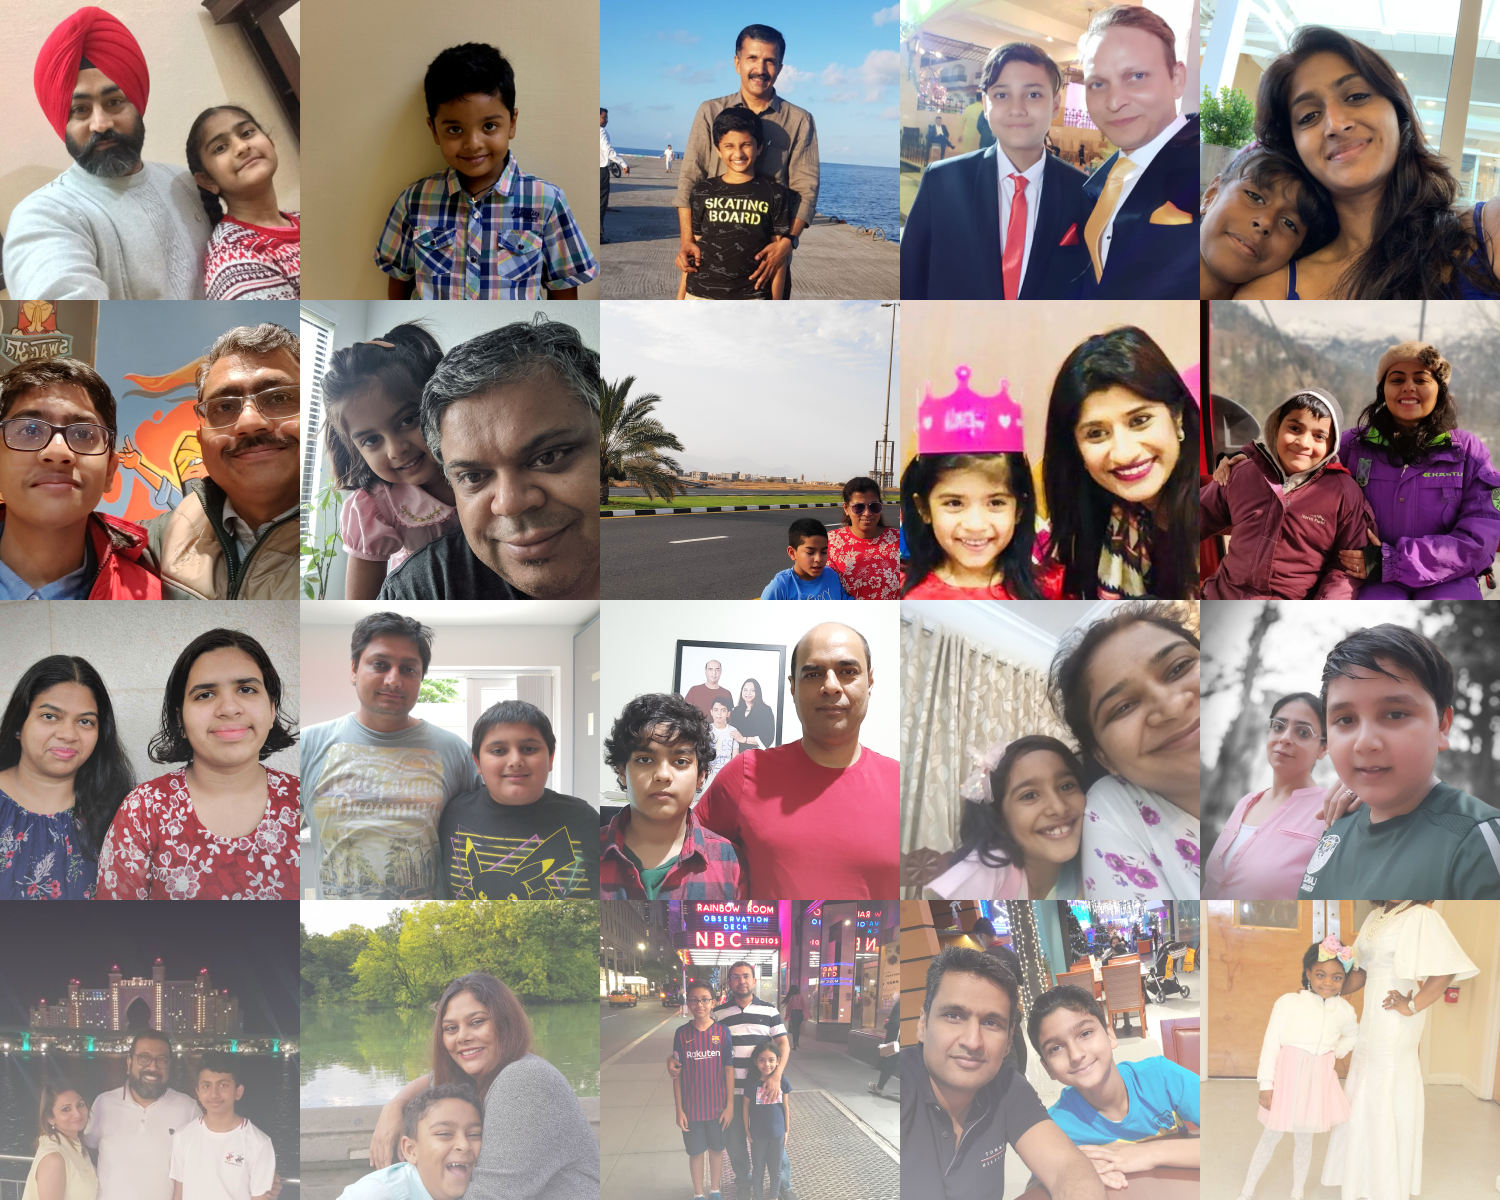
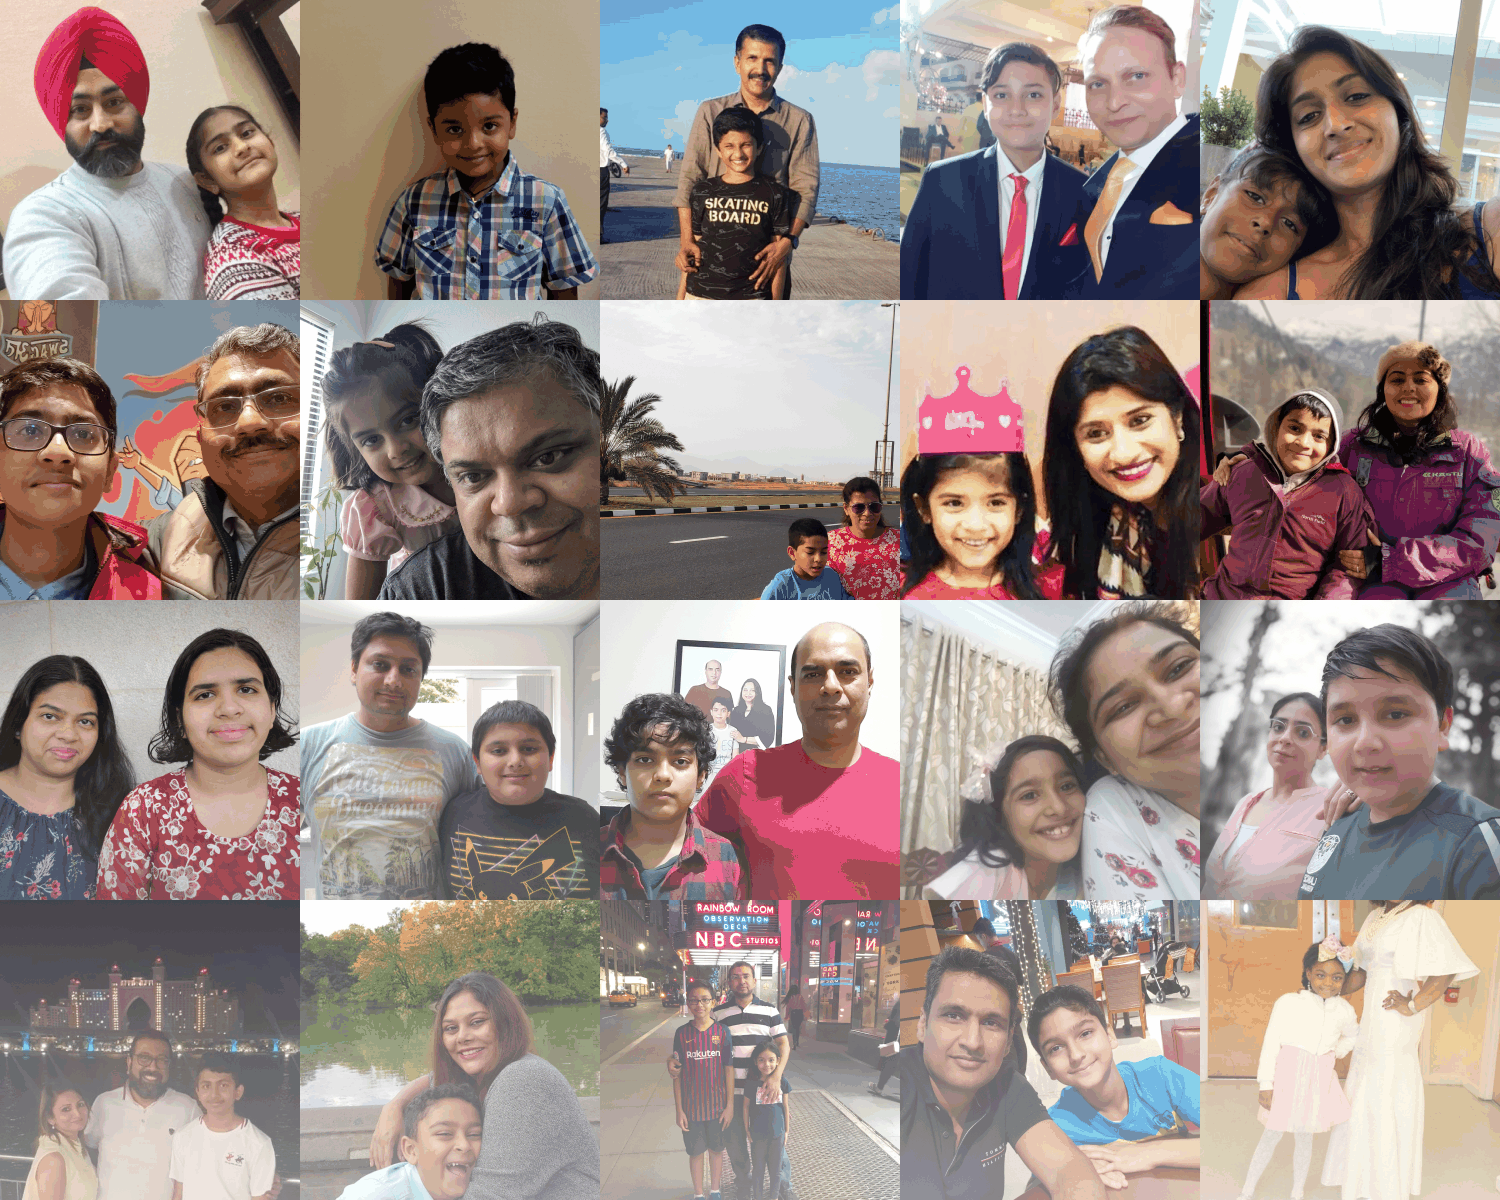
app: cold-start warmup for login + friendly account errors + 76% smaller image assets

diff --git a/CodeYoung/lib/core/services/api_service.dart b/CodeYoung/lib/core/services/api_service.dart
@@ -1,3 +1,5 @@
+import 'dart:async';
+
 import 'package:dio/dio.dart';
 import 'package:flutter/foundation.dart';
 import 'package:shared_preferences/shared_preferences.dart';
@@ -127,24 +129,28 @@ class ApiService {
     Map<String, dynamic> body, {
     bool requireAuth = false,
     bool rawToken = false,
-  }) async {
-    try {
-      final res = await _dio.post<Map<String, dynamic>>(path, data: body);
-      if (res.statusCode == 401 && requireAuth) {
-        throw const ApiException('Your session expired. Please sign in again.', 401);
+  }) {
+    // Login/register often race a cold server on first open — wait it out
+    // once rather than fail the user with a network error on their first tap.
+    return _withWarmRetry(() async {
+      try {
+        final res = await _dio.post<Map<String, dynamic>>(path, data: body);
+        if (res.statusCode == 401 && requireAuth) {
+          throw const ApiException('Your session expired. Please sign in again.', 401);
+        }
+        if (res.data == null) return const {};
+        if (res.statusCode != 200 && res.statusCode != 201) {
+          throw ApiException(_messageOf(res.data), res.statusCode ?? 500);
+        }
+        if (rawToken) {
+          final t = res.data!['token'];
+          if (t is String) await _saveToken(t);
+        }
+        return res.data!;
+      } on DioException catch (e) {
+        throw _wrap(e, path);
       }
-      if (res.data == null) return const {};
-      if (res.statusCode != 200 && res.statusCode != 201) {
-        throw ApiException(_messageOf(res.data), res.statusCode ?? 500);
-      }
-      if (rawToken) {
-        final t = res.data!['token'];
-        if (t is String) await _saveToken(t);
-      }
-      return res.data!;
-    } on DioException catch (e) {
-      throw _wrap(e, path);
-    }
+    }, (e) => e.isOffline);
   }
 
   Future<Map<String, dynamic>> putJson(
@@ -219,13 +225,72 @@ class ApiService {
     return 'Something went wrong. Please try again.';
   }
 
+  DateTime? _wokeAt;
+
+  /// Wake the API from free-tier sleep.
+  ///
+  /// The hosted backend parks after ~15 minutes idle and takes up to a minute
+  /// to answer its first request. Ordinary requests use a short timeout so the
+  /// app stays snappy, but login/register on a cold server would then fail
+  /// before the server is ready. This helper pings /health with a long
+  /// deadline and remembers when the server last answered, so the warm-up
+  /// cost is paid once per session rather than on every screen.
+  Future<bool> wake({Duration timeout = const Duration(seconds: 65)}) async {
+    if (_wokeAt != null) return true;
+    try {
+      final wakeDio = Dio(
+        BaseOptions(
+          baseUrl: AppConfig.apiBase,
+          connectTimeout: timeout,
+          receiveTimeout: timeout,
+          headers: {'Content-Type': 'application/json'},
+          responseType: ResponseType.json,
+        ),
+      );
+      final res = await wakeDio.get<Map<String, dynamic>>('/health');
+      if (res.statusCode != 200) return false;
+      _wokeAt = DateTime.now();
+      return true;
+    } catch (_) {
+      return false;
+    }
+  }
+
+  /// Fire-and-forget app-start ping. Never blocks the UI; by the time the
+  /// user taps login, the server is usually already warm.
+  void wakeInBackground() {
+    unawaited(wake());
+  }
+
+  /// Retry a request once after waiting for a cold server.
+  Future<T> _withWarmRetry<T>(
+    Future<T> Function() request,
+    bool Function(ApiException e) retryOn,
+  ) async {
+    try {
+      return await request();
+    } on ApiException catch (e) {
+      if (!retryOn(e)) rethrow;
+      // Cold start: wait for /health, then try once more.
+      final up = await wake();
+      if (!up) {
+        throw const ApiException(
+          'The CodeYoung server is still starting up. Please wait about a '
+          'minute and tap again — your details are safe.',
+          0,
+        );
+      }
+      return request();
+    }
+  }
+
   ApiException _wrap(DioException e, String path) {
     if (e.type == DioExceptionType.connectionTimeout ||
         e.type == DioExceptionType.receiveTimeout ||
         e.type == DioExceptionType.connectionError) {
       return ApiException(
-        'Cannot reach the CodeYoung server at ${AppConfig.apiBase}. '
-        'Make sure the backend is running, then tap Retry.',
+        'The CodeYoung server is still waking up — this can take up to a '
+        'minute if it has been idle. Please try again in a moment.',
         0,
         path: path,
       );

diff --git a/CodeYoung/lib/core/services/repositories.dart b/CodeYoung/lib/core/services/repositories.dart
@@ -30,11 +30,24 @@ class AuthController extends StateNotifier<AuthState> {
     await _api.restoreSession();
     if (_api.isAuthenticated) {
       try {
+        // Give a cold server up to a minute before giving up on the saved
+        // session — otherwise first launch after an idle day logs the user
+        // out purely because the backend was asleep.
+        final up = await _api.wake();
+        if (!up) {
+          // Keep the stored token: try again next launch.
+          state = const AuthState(initialised: true);
+          return;
+        }
         final json = await _api.getJson('/api/auth/me', requireAuth: true);
         state = AuthState(user: AppUser.fromJson(json), initialised: true);
         return;
+      } on ApiException catch (e) {
+        // Only a definitive 401 means the session is really over.
+        if (e.isUnauthorized) await _api.clearSession();
       } catch (_) {
-        await _api.clearSession();
+        // Transient failure — keep the token, let the UI show logged-out
+        // state for this run; next launch retries.
       }
     }
     state = const AuthState(initialised: true);

diff --git a/CodeYoung/lib/features/auth/login_screen.dart b/CodeYoung/lib/features/auth/login_screen.dart
@@ -223,6 +223,22 @@ class _LoginScreenState extends ConsumerState<LoginScreen> {
                   loading: _loading,
                   onPressed: _submit,
                 ),
+                if (_loading) ...[
+                  const SizedBox(height: 14),
+                  Center(
+                    child: Text(
+                      'Connecting to the CodeYoung server…\nif it has been idle, it can take up to a minute to wake.',
+                      textAlign: TextAlign.center,
+                      style: TextStyle(
+                        fontSize: 12,
+                        height: 1.5,
+                        color: isDark
+                            ? AppColors.textOnDark.withValues(alpha: 0.6)
+                            : AppColors.textSecondary,
+                      ),
+                    ),
+                  ),
+                ],
                 const SizedBox(height: 16),
 
                 Row(

diff --git a/CodeYoung/lib/features/account/account_screen.dart b/CodeYoung/lib/features/account/account_screen.dart
@@ -79,7 +79,10 @@ class AccountScreen extends ConsumerWidget {
                   padding: const EdgeInsets.symmetric(horizontal: 16),
                   child: ErrorState(
                     compact: true,
-                    message: e.toString(),
+                    message: (e is ApiException && e.isOffline)
+                        ? 'The CodeYoung server is still waking up from idle.\n'
+                            'It can take up to a minute — tap Try again in a moment.'
+                        : "We couldn't load your progress. Please tap Try again.",
                     onRetry: () => ref.invalidate(statsProvider),
                   ),
                 ),

diff --git a/CodeYoung/lib/main.dart b/CodeYoung/lib/main.dart
@@ -4,10 +4,15 @@ import 'package:flutter_riverpod/flutter_riverpod.dart';
 import 'package:flutter_localizations/flutter_localizations.dart';
 
 import 'core/router/app_router.dart';
+import 'core/services/api_service.dart';
 import 'core/theme/app_theme.dart';
 
 void main() {
   WidgetsFlutterBinding.ensureInitialized();
+
+  // Ping the hosted API in the background so its free-tier instance is
+  // already awake when the user reaches login/home — never blocks this frame.
+  ApiService.instance.wakeInBackground();
 
   // Brand the system chrome to match the app.
   SystemChrome.setSystemUIOverlayStyle(
